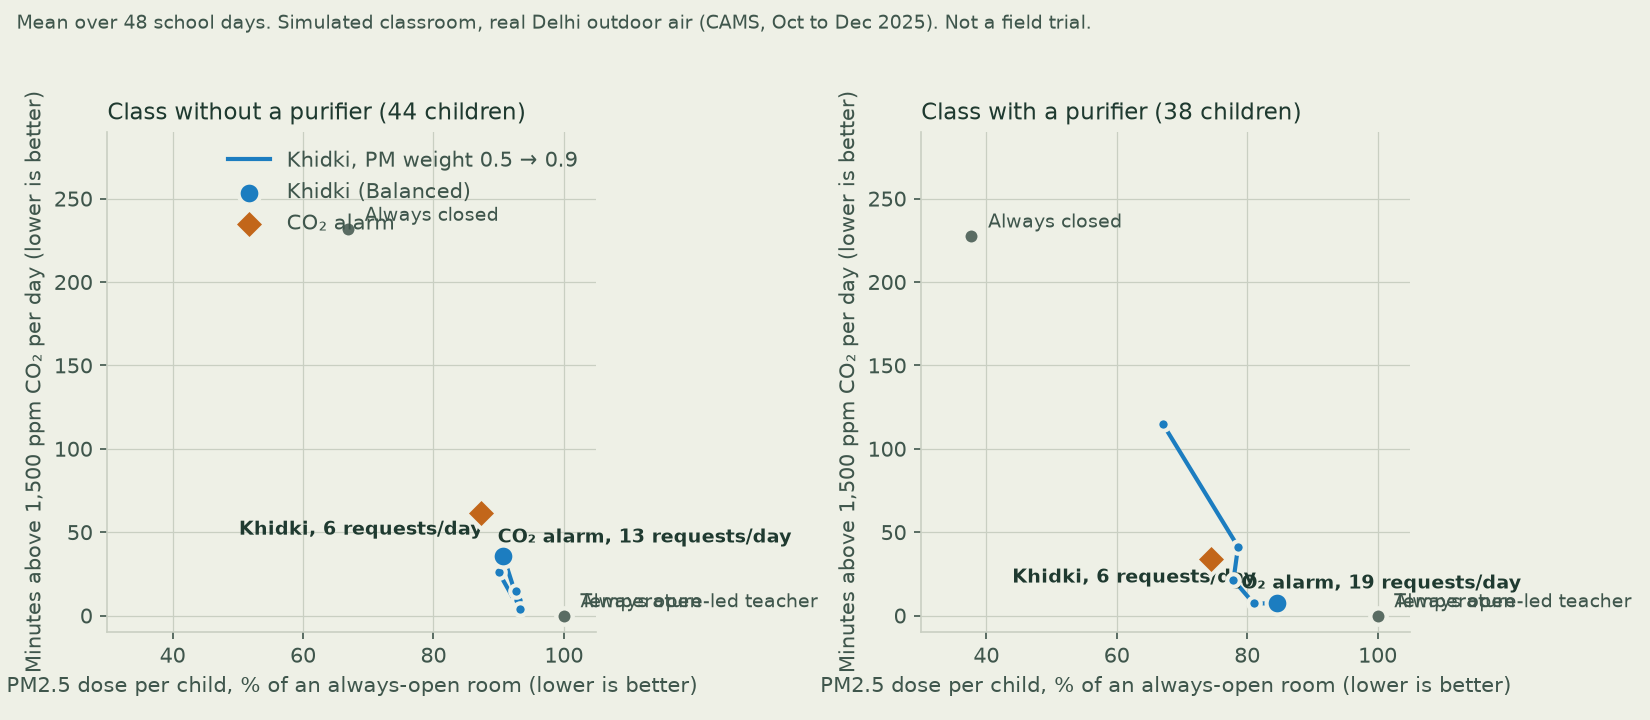
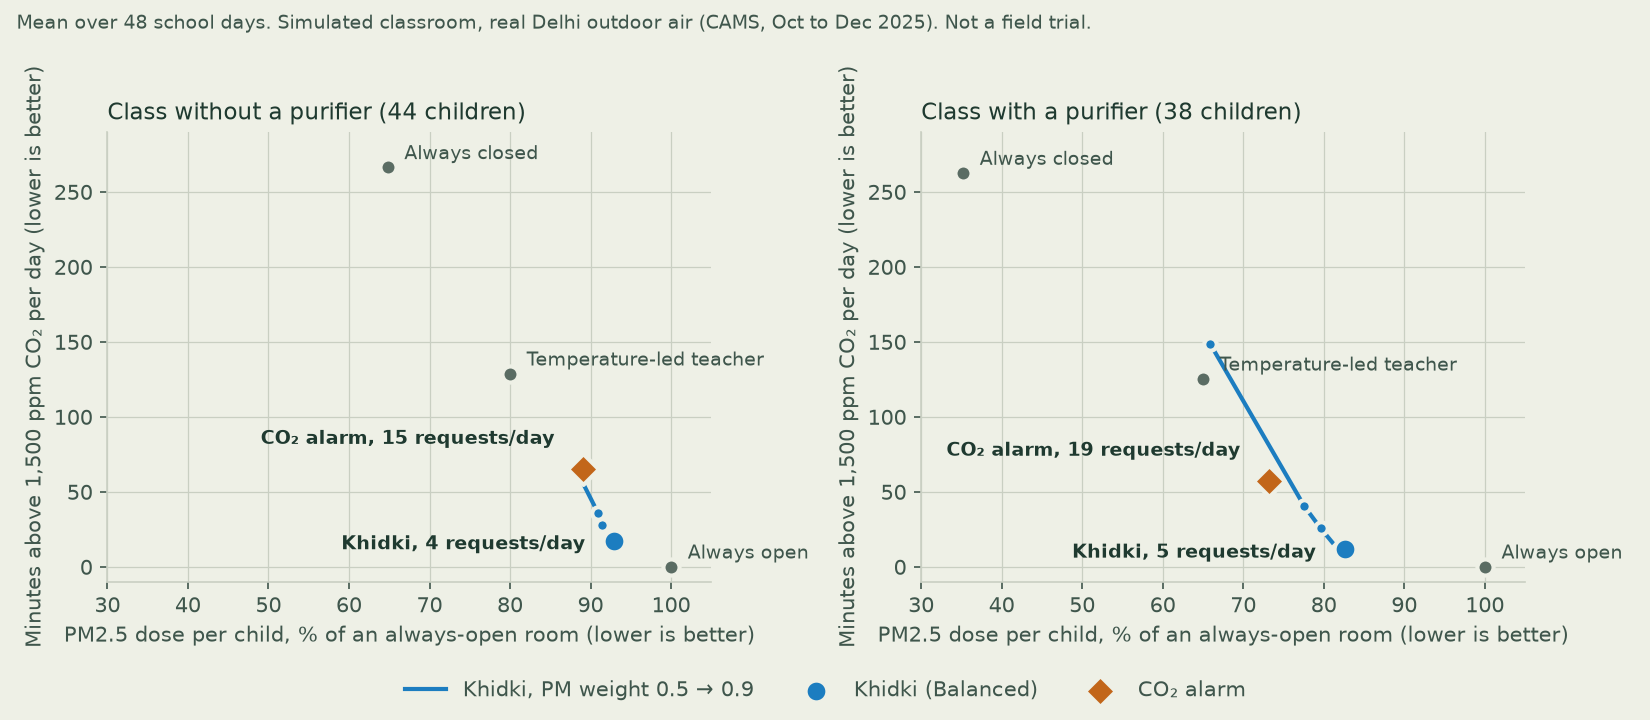
feat(bench): 48-day real-data benchmark, PM-weight sweep, Pareto chart and honest report
- every policy on the same true room (physics differ from Khidki's model), 1-minute resolution,
  same 70%-compliance teacher for Khidki and the CO2 alarm, 30-minute re-planning, budget of 6
- PM-weight sweep (0.5 to 0.9) shows Khidki's trade-off curve against the alarm
- reproducible seeds (crc32, not hash()); validated palette; docs/benchmark.md, chart, web JSON
- result: ~74% fewer minutes above 1,500 ppm and ~1/4 of the requests vs a CO2 alarm, ~4 points
  more PM; at PM weight 0.9 it matches the alarm on PM and CO2 with 1/3 of the requests

diff --git a/bench/report.py b/bench/report.py
@@ -123,7 +123,7 @@ def chart(summary: dict[str, Any]) -> Path:
             f"Khidki, {k['requests']:.0f} requests/day",
             (k["pm_pct_of_always_open"], k["co2_min_over_1500"]),
             textcoords="offset points",
-            xytext=(-10, 10),
+            xytext=(-14, -4),
             ha="right",
             color=INK,
             fontsize=9,
@@ -145,7 +145,8 @@ def chart(summary: dict[str, Any]) -> Path:
             f"CO₂ alarm, {a['requests']:.0f} requests/day",
             (a["pm_pct_of_always_open"], a["co2_min_over_1500"]),
             textcoords="offset points",
-            xytext=(8, -14),
+            xytext=(-14, 12),
+            ha="right",
             color=INK,
             fontsize=9,
             fontweight="bold",
@@ -155,7 +156,8 @@ def chart(summary: dict[str, Any]) -> Path:
         ax.set_ylabel("Minutes above 1,500 ppm CO₂ per day (lower is better)")
         ax.set_xlim(30, 105)
         ax.set_ylim(-10, 290)
-    axes[0].legend(loc="upper right", frameon=False, labelcolor=INK2)
+    handles, labels = axes[0].get_legend_handles_labels()
+    fig.legend(handles, labels, loc="lower center", ncol=3, frameon=False, labelcolor=INK2)
     fig.suptitle(
         "Mean over 48 school days. Simulated classroom, real Delhi outdoor air (CAMS, Oct to Dec 2025). "
         "Not a field trial.",
@@ -164,7 +166,7 @@ def chart(summary: dict[str, Any]) -> Path:
         x=0.01,
         ha="left",
     )
-    fig.tight_layout(rect=(0, 0, 1, 0.95))
+    fig.tight_layout(rect=(0, 0.07, 1, 0.95))
     out = RESULTS / "pareto.png"
     fig.savefig(out, dpi=150, facecolor=CHALK)
     shutil.copy(out, ROOT / "docs" / "benchmark-pareto.png")

diff --git a/tasks.py b/tasks.py
@@ -78,7 +78,6 @@ def not_yet(phase: str) -> Callable[[list[str]], int]:
 
 for _name, _phase, _help in [
     ("sim", "Phase 2", "Run the classroom simulator against local or cloud"),
-    ("bench", "Phase 7", "Run the policy benchmark over replay days"),
     ("cdk-synth", "Phase 4", "Synthesize the CDK app"),
     ("deploy", "Phase 4", "Deploy all stacks to AWS (ap-south-1)"),
     ("provision-device", "Phase 4", "Create an IoT thing and certificates for a room"),
@@ -116,6 +115,13 @@ def local(args: list[str]) -> int:
         for proc in (api, web):
             if proc and proc.poll() is None:
                 proc.terminate()
+
+
+@command("Run the 48-day benchmark (Khidki vs baselines) and write docs/benchmark.md + chart")
+def bench(args: list[str]) -> int:
+    print("Running the benchmark on every replay day (a few minutes)...")
+    rc = run([uv(), "run", "python", "bench/run_benchmark.py", *args])
+    return rc or run([uv(), "run", "python", "bench/report.py"])
 
 
 @command("Cache real Delhi outdoor-air replay days from Open-Meteo")

diff --git a/docs/benchmark.md b/docs/benchmark.md
@@ -13,37 +13,37 @@ minutes and counts every request against its daily budget of 6, including ones t
 
 | Policy | PM2.5 dose (% of always open) | Min > 1,500 ppm | Min > 1,000 ppm | Peak CO₂ | Cold exposure (°C·min) | Requests to teacher |
 |---|---|---|---|---|---|---|
-| Always closed | 66.9 | 231.7 | 242.7 | 3883 | 0.0 | 0.0 |
-| Always open | 100.0 | 0.0 | 0.0 | 882 | 0.0 | 1.0 |
-| CO₂ alarm | 87.3 | 61.3 | 190.7 | 2176 | 0.0 | 13.3 |
-| Temperature-led teacher | 100.0 | 0.0 | 0.0 | 882 | 0.0 | 1.0 |
-| Khidki | 90.7 | 36.0 | 75.7 | 1783 | 0.0 | 5.7 |
-| Khidki, teacher always acts | 95.2 | 0.0 | 37.0 | 1152 | 0.0 | 5.3 |
-| Khidki, PM weight 0.6 | 92.9 | 9.3 | 57.0 | 1657 | 0.0 | 5.0 |
-| Khidki, PM weight 0.7 | 92.7 | 14.7 | 88.0 | 1691 | 0.0 | 5.3 |
-| Khidki, PM weight 0.8 | 93.2 | 3.7 | 53.0 | 1589 | 0.0 | 4.7 |
-| Khidki, PM weight 0.9 | 90.0 | 26.0 | 64.7 | 2236 | 0.0 | 5.3 |
+| Always closed | 64.8 | 266.3 | 277.2 | 4075 | 0.0 | 0.0 |
+| Always open | 100.0 | 0.0 | 0.0 | 880 | 205.7 | 1.0 |
+| CO₂ alarm | 89.1 | 65.3 | 220.3 | 2181 | 80.6 | 14.9 |
+| Temperature-led teacher | 80.0 | 128.7 | 142.5 | 3105 | 0.0 | 1.0 |
+| Khidki | 92.9 | 17.3 | 90.4 | 1713 | 86.3 | 4.0 |
+| Khidki, teacher always acts | 94.6 | 1.6 | 75.2 | 1354 | 91.1 | 3.7 |
+| Khidki, PM weight 0.6 | 92.4 | 19.2 | 105.2 | 1897 | 76.0 | 4.9 |
+| Khidki, PM weight 0.7 | 91.4 | 27.6 | 122.7 | 2013 | 67.3 | 5.0 |
+| Khidki, PM weight 0.8 | 90.9 | 36.2 | 133.6 | 2095 | 58.9 | 5.2 |
+| Khidki, PM weight 0.9 | 88.4 | 62.8 | 145.2 | 2385 | 34.2 | 5.4 |
 
-**Khidki (Balanced) vs CO₂ alarm, day by day:** fewer minutes above 1,500 ppm on 2 of 3 days (tied on 0); median PM2.5 difference +4.4 points of an always-open dose; median requests 0.43× the alarm's.
-Khidki Pareto-dominates the alarm (better or equal on both PM and CO₂) on 0 of 3 days; the alarm dominates Khidki on 0.
+**Khidki (Balanced) vs CO₂ alarm, day by day:** fewer minutes above 1,500 ppm on 44 of 48 days (tied on 0); median PM2.5 difference +4.2 points of an always-open dose; median requests 0.28× the alarm's.
+Khidki Pareto-dominates the alarm (better or equal on both PM and CO₂) on 1 of 48 days; the alarm dominates Khidki on 1.
 
 ## Class with a purifier (38 children)
 
 | Policy | PM2.5 dose (% of always open) | Min > 1,500 ppm | Min > 1,000 ppm | Peak CO₂ | Cold exposure (°C·min) | Requests to teacher |
 |---|---|---|---|---|---|---|
-| Always closed | 37.7 | 227.7 | 240.7 | 3434 | 0.0 | 6.0 |
-| Always open | 100.0 | 0.0 | 0.0 | 831 | 0.0 | 7.0 |
-| CO₂ alarm | 74.4 | 33.7 | 173.3 | 1819 | 0.0 | 18.7 |
-| Temperature-led teacher | 100.0 | 0.0 | 0.0 | 831 | 0.0 | 7.0 |
-| Khidki | 84.5 | 7.3 | 187.3 | 1412 | 0.0 | 5.7 |
-| Khidki, teacher always acts | 83.4 | 0.0 | 211.0 | 1087 | 0.0 | 6.0 |
-| Khidki, PM weight 0.6 | 81.0 | 7.3 | 186.0 | 1579 | 0.0 | 5.7 |
-| Khidki, PM weight 0.7 | 77.9 | 21.3 | 179.0 | 1975 | 0.0 | 6.0 |
-| Khidki, PM weight 0.8 | 78.6 | 41.3 | 194.3 | 2206 | 0.0 | 6.0 |
-| Khidki, PM weight 0.9 | 67.1 | 114.7 | 224.7 | 1950 | 0.0 | 5.7 |
+| Always closed | 35.2 | 262.5 | 275.5 | 3600 | 0.0 | 4.4 |
+| Always open | 100.0 | 0.0 | 0.0 | 828 | 205.7 | 5.4 |
+| CO₂ alarm | 73.2 | 57.4 | 211.3 | 2057 | 70.6 | 18.6 |
+| Temperature-led teacher | 65.0 | 125.3 | 139.7 | 2759 | 0.0 | 5.4 |
+| Khidki | 82.6 | 11.7 | 251.0 | 1609 | 73.3 | 5.1 |
+| Khidki, teacher always acts | 82.8 | 2.4 | 260.2 | 1342 | 75.5 | 5.1 |
+| Khidki, PM weight 0.6 | 81.8 | 11.5 | 247.8 | 1621 | 66.5 | 5.0 |
+| Khidki, PM weight 0.7 | 79.6 | 25.8 | 242.2 | 1907 | 55.4 | 5.4 |
+| Khidki, PM weight 0.8 | 77.6 | 40.3 | 252.7 | 2068 | 39.8 | 5.9 |
+| Khidki, PM weight 0.9 | 65.9 | 148.6 | 258.1 | 2186 | 35.5 | 5.7 |
 
-**Khidki (Balanced) vs CO₂ alarm, day by day:** fewer minutes above 1,500 ppm on 3 of 3 days (tied on 0); median PM2.5 difference +11.7 points of an always-open dose; median requests 0.3× the alarm's.
-Khidki Pareto-dominates the alarm (better or equal on both PM and CO₂) on 0 of 3 days; the alarm dominates Khidki on 0.
+**Khidki (Balanced) vs CO₂ alarm, day by day:** fewer minutes above 1,500 ppm on 46 of 48 days (tied on 0); median PM2.5 difference +10.0 points of an always-open dose; median requests 0.3× the alarm's.
+Khidki Pareto-dominates the alarm (better or equal on both PM and CO₂) on 0 of 48 days; the alarm dominates Khidki on 1.
 
 ## What this does and doesn't show
 

diff --git a/docs/LEARNINGS.md b/docs/LEARNINGS.md
@@ -110,3 +110,18 @@ policy's `@en`/`@hi` annotations become the bilingual explanation, so "PE moved 
 A strict "within one unit of the last digit" rule rejected "about 1,620 ppm" for a measured 1,623. Trailing
 zeros now mark a rounded number, allowed within half its rounding unit *and* 3% of the tool value, so
 1,600 for 1,623 passes but 100 for 95 doesn't.
+
+### The benchmark said "trade-off", not "win", and that's the honest headline
+Across 48 real Delhi days, Khidki never clearly beats a CO₂ alarm on PM2.5 *and* CO₂ at once (Pareto-dominates
+on 1 of 48 days in the room without a purifier). What it does do, day after day:
+- **Balanced:** 74% fewer minutes above 1,500 ppm (17 vs 65 a day; fewer on 44 of 48 days), with about a quarter
+  of the requests to the teacher (4 vs 15), for ~4 points more PM2.5 of an always-open dose.
+- **PM-weighted (α 0.9):** lands on the alarm's PM *and* CO₂ (88% vs 89%, 63 vs 65 minutes) with a third of the
+  requests and less than half the cold air (34 vs 81 °C·min).
+Physics explains it: 44 children need ~3.3 air changes an hour, at which indoor PM is already ~94% of outdoor,
+so window timing barely moves PM without a purifier. The value is fewer stuffy minutes and fewer
+interruptions, verified. We report it that way.
+
+### `hash()` made the benchmark non-reproducible
+Seeds were `hash((date, room))`, and Python randomises string hashing per process, so two runs disagreed
+(Khidki's minutes above 1,500 ppm went from 12.6 to 16.0). Seeds now come from `zlib.crc32`.
